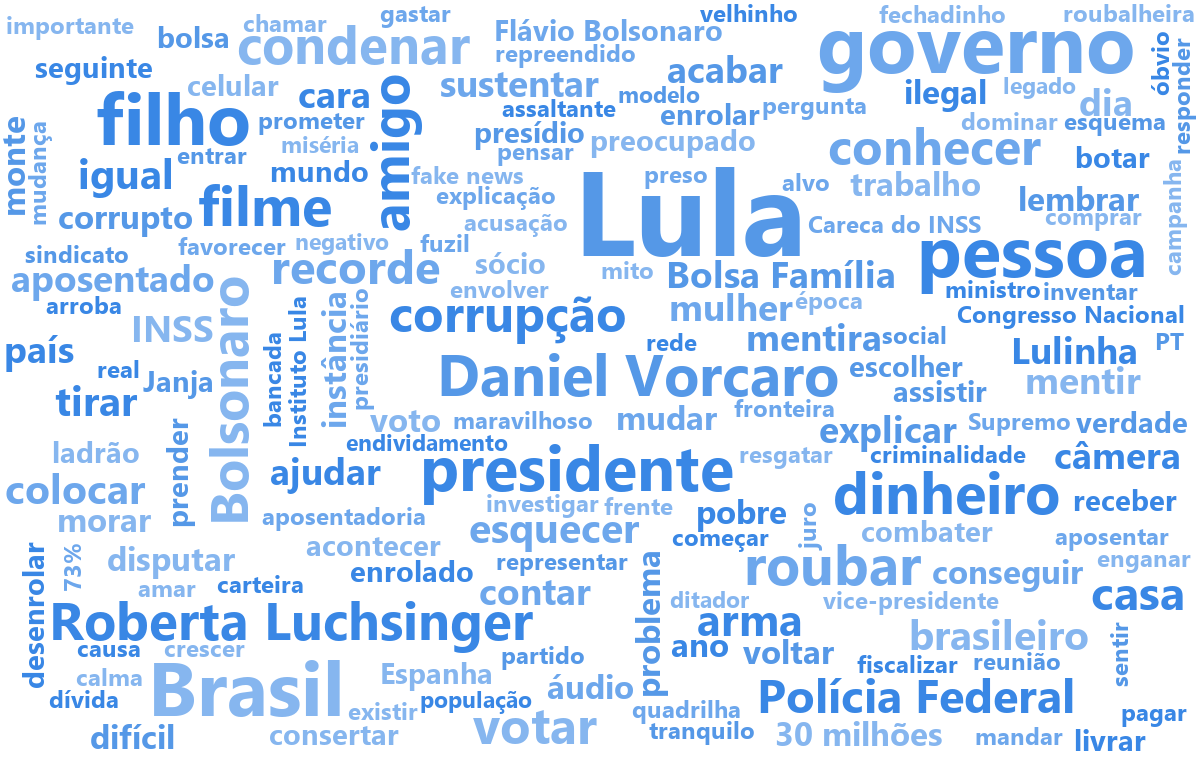
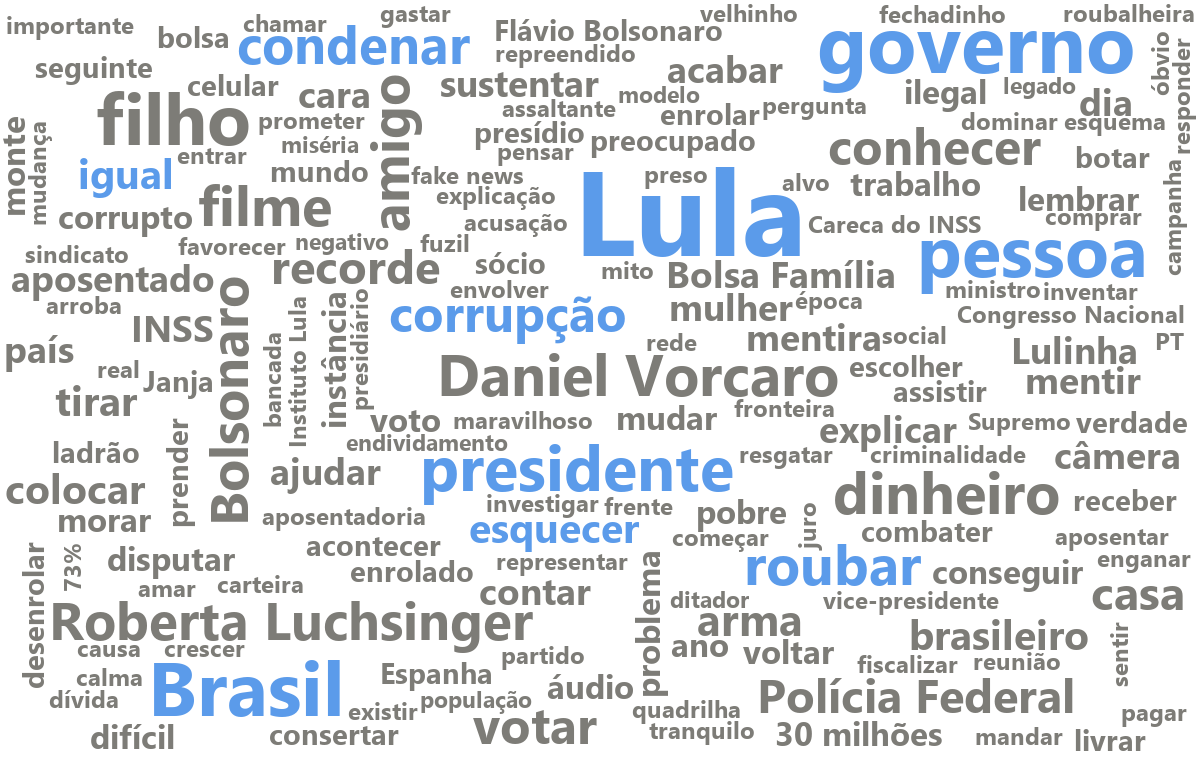
Nuvens de volta, com cor para o que é típico de cada candidato
- As nuvens voltam como abertura das palavras (Figura 5); as palavras
  típicas passam a ser a Figura 6.
- Tamanho continua sendo só a frequência, na mesma escala para os dois.
  Em cor ficam as dez palavras que cada um falou muito mais que o outro
  (as mesmas da Figura 6, log-odds com prior); em cinza, as demais.
  O z >= 1,96 coloria só 6 palavras no total, por isso o corte é o top 10.
- Volta o "Como lemos as palavras", agora com o critério da cor; o tema
  escuro tem a sua versão das nuvens.

Claude-Session: https://claude.ai/code/session_01QfAZW8qV51nWET5UEQ2VSd

Changed region(s): [[0.0, 0.0, 1.0, 0.9987], [0.7092, 0.0, 0.8325, 0.0303], [0.0, 0.4539, 0.0617, 0.4842]]

diff --git a/docs/index.html b/docs/index.html
@@ -205,6 +205,13 @@ svg text { font-family: var(--sans); }
 .dw .n { grid-column: 2; grid-row: 1 / span 2; font: 400 13px/1.2 var(--sans); color: var(--muted); text-align: right; font-variant-numeric: tabular-nums; }
 @media (max-width: 600px) { .dist { grid-template-columns: 1fr; gap: 24px; } }
 
+/* nuvens */
+.clouds { display: grid; grid-template-columns: 1fr 1fr; gap: 28px; }
+.clouds figure { margin: 0; }
+.clouds h3 { display: flex; align-items: center; gap: 8px; }
+.clouds img { width: 100%; height: auto; display: block; }
+@media (max-width: 600px) { .clouds { grid-template-columns: 1fr; } }
+
 /* outros recortes */
 .grid2 { display: grid; grid-template-columns: 1fr 1fr; gap: 0 48px; }
 @media (max-width: 760px) { .grid2 { grid-template-columns: 1fr; } }
@@ -334,7 +341,17 @@ svg [tabindex]:focus-visible { outline: none; stroke: var(--ink); stroke-width: 
   </section>
 
   <figure class="mid">
-    <div class="fig-h">Figura 5. As palavras que cada um usou muito mais que o outro</div>
+    <div class="fig-h">Figura 5. Nuvens de palavras, na mesma escala</div>
+    <p class="fig-sub">Quanto maior a palavra, mais vezes foi dita (mesma escala nas duas nuvens). <b>Em cor:</b> palavras que um falou muito mais que o outro, as dez da Figura 6. <b>Em cinza:</b> palavras que os dois usaram.</p>
+    <div class="clouds">
+      <figure><h3><i class="sw lula"></i>Lula</h3><picture><source srcset="img/nuvem_lula_escuro.png?v=7" media="(prefers-color-scheme: dark)"><img src="img/nuvem_lula.png?v=7" alt="Nuvem de palavras das falas de Lula" data-claro="img/nuvem_lula.png?v=7" data-escuro="img/nuvem_lula_escuro.png?v=7"></picture></figure>
+      <figure><h3><i class="sw flavio"></i>Flávio</h3><picture><source srcset="img/nuvem_flavio_escuro.png?v=7" media="(prefers-color-scheme: dark)"><img src="img/nuvem_flavio.png?v=7" alt="Nuvem de palavras das falas de Flávio Bolsonaro" data-claro="img/nuvem_flavio.png?v=7" data-escuro="img/nuvem_flavio_escuro.png?v=7"></picture></figure>
+    </div>
+    <details class="nota"><summary>Como lemos as palavras</summary><ul id="crit-nuvem" style="margin:8px 0 0;padding-left:18px"></ul></details>
+  </figure>
+
+  <figure class="mid">
+    <div class="fig-h">Figura 6. As palavras que cada um usou muito mais que o outro</div>
     <p class="fig-sub">A barra mostra o quanto a palavra é típica do candidato. À direita, quantas vezes Lula × Flávio a disseram. “Lula” lidera a lista de Flávio porque ele chamava o adversário pelo nome (seção 2).</p>
     <div class="dist" id="dist"></div>
     <p class="fig-src">Log-odds com prior de Dirichlet informativo (Monroe, Colaresi e Quinn, 2008), sobre lemas do spaCy pt_core_news_lg.</p>
@@ -419,6 +436,12 @@ function aplicaTema() {
   btn.innerHTML = t === "dark" ? `${ICONE.light}Claro` : `${ICONE.dark}Escuro`;
   btn.setAttribute("aria-label", t === "dark" ? "Mudar para o tema claro" : "Mudar para o tema escuro");
   btn.setAttribute("aria-pressed", t === "dark");
+  // nuvens: imagem própria para cada tema
+  document.querySelectorAll(".clouds picture").forEach(pic => {
+    const src = pic.querySelector("source"), img = pic.querySelector("img");
+    if (src) src.media = raiz.dataset.theme ? (t === "dark" ? "all" : "not all") : "(prefers-color-scheme: dark)";
+    img.src = img.dataset[t === "dark" ? "escuro" : "claro"];
+  });
 }
 document.getElementById("tema-btn").addEventListener("click", () => {
   raiz.dataset.theme = temaAtual() === "dark" ? "light" : "dark";
@@ -525,8 +548,8 @@ function render(d) {
     `Fora esse tema, cada um seguiu um caminho: Lula falou mais que Flávio de ${N.maisLula.map(t => `<i>${rot(t)}</i>`).join(" e ")}; ` +
     `Flávio, de ${N.maisFlavio.map(t => `<i>${rot(t)}</i>`).join(" e ")}.`;
   document.getElementById("p-pal").innerHTML =
-    "Contar palavras engana: os dois dizem muito “Brasil” e “governo”. Por isso comparamos o vocabulário: " +
-    "na figura, as palavras que um usou muito mais que o outro.";
+    "As nuvens mostram o que cada um mais disse, e por isso os dois aparecem com “Brasil” e “governo” em destaque. " +
+    "A Figura 6 compara o vocabulário dos dois e mostra só as palavras que um usou muito mais que o outro.";
 
   figPerguntas(d, N);
   figTom(N);
@@ -639,6 +662,16 @@ function figPalavras(d) {
       <span class="bar" style="width:${Math.abs(s.z) / maxZ * 100}%;background:var(--${C[q]})"></span></div>`).join("") + `</div>`).join("");
   document.querySelectorAll("#dist .dw").forEach(el => tipOn(el, () => `<div class="h">“${esc(el.dataset.w)}”</div>Lula disse ${el.dataset.a} vezes; Flávio, ${el.dataset.b}` +
     (el.dataset.tema ? `<br>Mais presente em falas sobre: ${esc(el.dataset.tema)}` : "")));
+  const cn = d.criterio_nuvem;
+  if (cn) document.getElementById("crit-nuvem").innerHTML = [
+    `<b>Entram:</b> ${esc(cn.classes)}; também ${esc(cn.tambem_entram)}.`,
+    `<b>Contam como um termo só:</b> ${cn.inteiros.map(esc).join(", ")}.`,
+    `<b>Mínimo:</b> ${cn.minimo_ocorrencias} ocorrências.`,
+    `<b>Saem:</b> palavras gramaticais (lista padrão do spaCy em português), as frases ${esc(cn.frases_excluidas)} e estas muletas e verbos genéricos: ${cn.muletas_excluidas.map(esc).join(", ")}.`,
+    `<b>Tamanho:</b> ${esc(cn.escala)}.`,
+    `<b>Cor:</b> as dez palavras mais típicas de cada candidato pelo log-odds com prior informativo (Monroe, Colaresi e Quinn, 2008), a mesma medida da Figura 6. O tamanho continua sendo só a frequência.`,
+    `O nome do adversário fica na nuvem: por isso “Lula” aparece grande na de Flávio (ver seção 2).`,
+  ].map(x => `<li style="margin-bottom:6px">${x}</li>`).join("");
 }
 
 // Explorar o que foi dito: uma fala por cartão, com perguntas em negrito e afirmações sublinhadas no texto,
@@ -1084,7 +1117,7 @@ function renderMetodo(d) {
     ["classificacao", "Classificação", "ia", `agente de IA (${agente(P.classificacao_por)})`,
       "O agente marca o tipo de cada fala (ataque, defesa, proposta), até três temas de uma lista fixa e um resumo, e lista as afirmações checáveis e as perguntas diretas. Cada fala recebe um tipo só: uma fala que mistura ataque e proposta conta inteira pelo tipo principal. Um programa confere que cada trecho citado existe, letra a letra, na transcrição."],
     ["contagens", "Contagens e palavras", "codigo", "código com regras fixas (spaCy)",
-      "Tempo de fala, ritmo, vezes que cada um disse o nome do outro e palavras típicas saem de contas com regras fixas, sem IA generativa."],
+      "Tempo de fala, ritmo, vezes que cada um disse o nome do outro, nuvens e palavras típicas saem de contas com regras fixas, sem IA generativa."],
     ["busca", "Busca por sentido (opcional)", "nav", "modelo aberto, no seu navegador (e5-small)",
       "Cada trecho de fala vira um vetor que representa seu sentido. Se você ativar a busca, sua consulta vira um vetor no seu navegador e aparecem as falas mais parecidas."],
   ];

diff --git a/scripts/analyze.py b/scripts/analyze.py
@@ -26,11 +26,13 @@ site = Path(sys.argv[2])
 CANDS = ["Lula", "Flávio"]
 SLUG = {"Lula": "lula", "Flávio": "flavio"}
 # tons da mesma rampa que passam contraste nas superfícies clara e escura do painel
-CLOUD_TONES = {"Lula": ["#e34948", "#c93a3a", "#e66767", "#b33232"],
-               "Flávio": ["#2a78d6", "#256abf", "#3987e5", "#1c5cab"]}
-# versão para o modo escuro: tons mais claros das mesmas rampas, legíveis sobre #1a1a19
-CLOUD_TONES_ESCURO = {"Lula": ["#e66767", "#f08a8a", "#eb7a7a", "#f5a3a3"],
-                      "Flávio": ["#3987e5", "#6da7ec", "#5598e7", "#86b6ef"]}
+# nas nuvens, o tamanho é a frequência e a cor diz se a palavra é típica de quem fala: na cor do
+# candidato as 10 palavras que ele usou muito mais que o outro (as mesmas da figura de palavras típicas,
+# log-odds com prior); em cinza, as demais. Tons que passam contraste nas duas superfícies.
+COR_TIPICA = {"Lula": "#d33a39", "Flávio": "#2a6fc9"}
+COR_TIPICA_ESCURO = {"Lula": "#ec7a7a", "Flávio": "#5b9bea"}
+COR_OUTRA, COR_OUTRA_ESCURO = "#a19f98", "#7d7c77"
+N_TIPICAS = 10
 
 STOP_SUPERFICIE = nlp.Defaults.stop_words | EXTRA_STOP | {"deixa", "olha", "vai", "vou", "é", "tá", "lhe", "ô"}
 # palavra que nunca aparece em minúscula na transcrição é nome próprio ("Roberta Luchsinger", "Brasil")
@@ -136,6 +138,9 @@ for w, aw in prior.items():
 scores.sort(key=lambda x: x["z"])
 res["distintivas"] = {"Lula": [s for s in scores[::-1][:15] if s["z"] > 0],
                       "Flávio": [s for s in scores[:15] if s["z"] < 0]}
+# nas nuvens, ganham a cor do candidato as mesmas palavras da figura de típicas (as 10 primeiras)
+TIPICAS_NUVEM = {c: {x["palavra"] for x in res["distintivas"][c][:N_TIPICAS]} for c in CANDS}
+tipica = lambda c, w: w in TIPICAS_NUVEM[c]
 
 # cada palavra típica herda o tema das falas do candidato em que ela aparece (votos ponderados
 # pelas ocorrências; um turno com dois temas divide o voto). Junta "bala", "criança", "matar"
@@ -182,13 +187,11 @@ gmax = max(max(lem[c].values()) for c in CANDS)
 
 def nuvem(c, letra_max):
     freq = {w: math.sqrt(n) for w, n in lem[c].items() if n >= MIN_OCORR}
-    rng = random.Random(7)
-    tones = CLOUD_TONES[c]
     return WordCloud(width=1200, height=760, mode="RGBA", background_color=None, prefer_horizontal=0.92,
                      font_path="C:/Windows/Fonts/segoeuib.ttf", random_state=7, margin=6,
                      relative_scaling=1, max_words=len(freq), min_font_size=8,
                      max_font_size=round(letra_max * math.sqrt(max(lem[c].values()) / gmax)),
-                     color_func=lambda *a, **k: rng.choice(tones)).generate_from_frequencies(freq)
+                     color_func=lambda *a, **k: COR_TIPICA[c] if tipica(c, a[0] if a else k.get("word")) else COR_OUTRA).generate_from_frequencies(freq)
 
 
 def proporcional(wc, c, k):
@@ -209,9 +212,9 @@ else:
     raise SystemExit("nenhuma letra máxima coube na escala; aumente a área da nuvem")
 for c, wc in clouds.items():
     wc.to_file(str(site / "img" / f"nuvem_{SLUG[c]}.png"))
-    rng_escuro = random.Random(7)  # mesma disposição, só troca as cores
-    wc.recolor(color_func=lambda *a, **k: rng_escuro.choice(CLOUD_TONES_ESCURO[c]))
+    wc.recolor(color_func=lambda *a, **k: COR_TIPICA_ESCURO[c] if tipica(c, a[0] if a else k.get("word")) else COR_OUTRA_ESCURO)  # mesma disposição
     wc.to_file(str(site / "img" / f"nuvem_{SLUG[c]}_escuro.png"))
+print("  nuvens: típicas coloridas:", {c: sum(tipica(c, w) for w, n in lem[c].items() if n >= MIN_OCORR) for c in CANDS})
 print(f"  nuvens: letra máxima {letra_max}px para {gmax} ocorrências; "
       f"{', '.join(f'{c} {len(w.layout_)} termos' for c, w in clouds.items())}")
 
